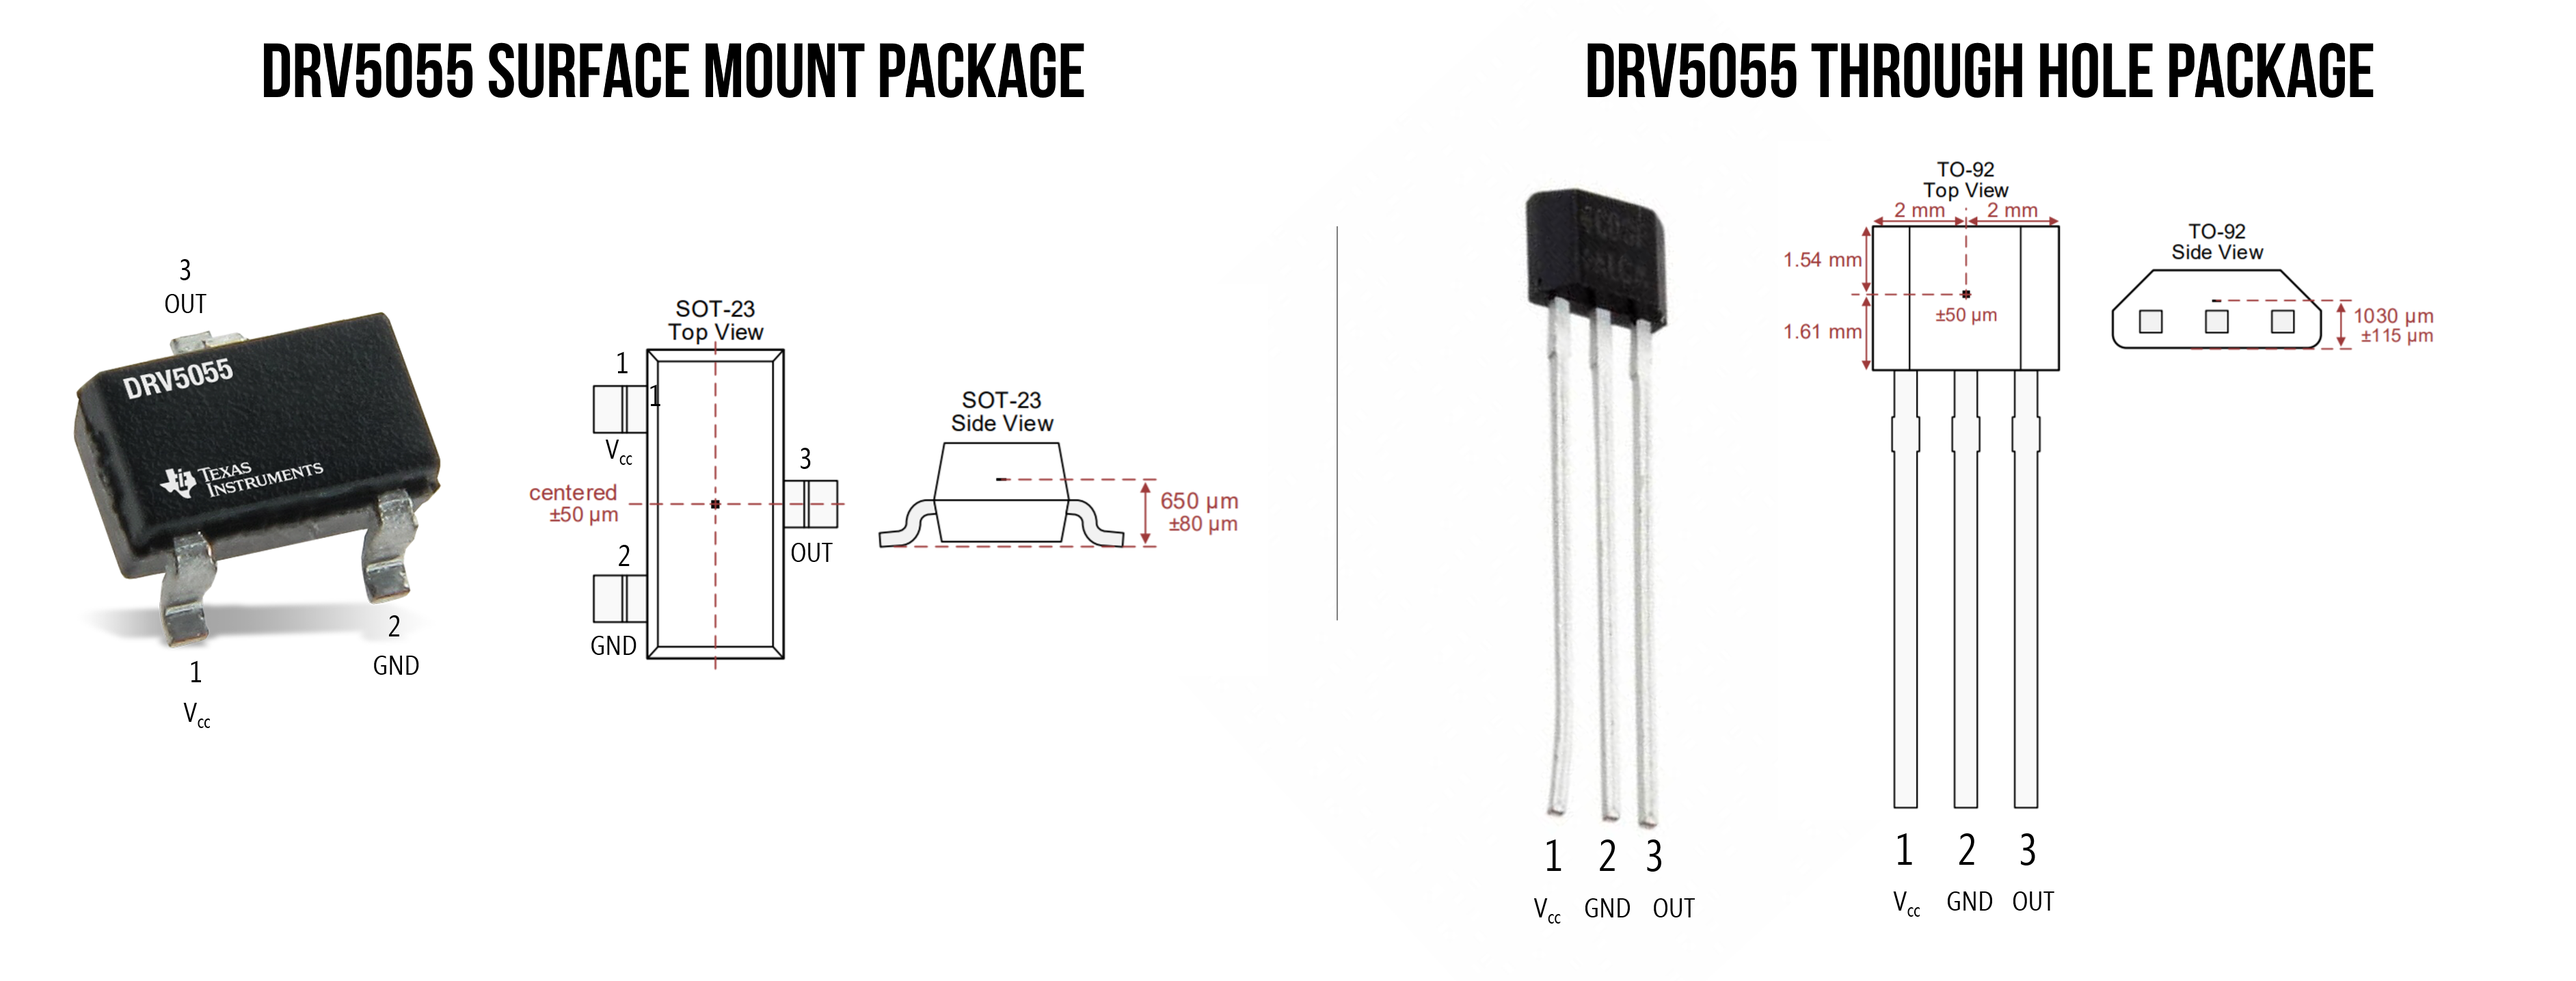
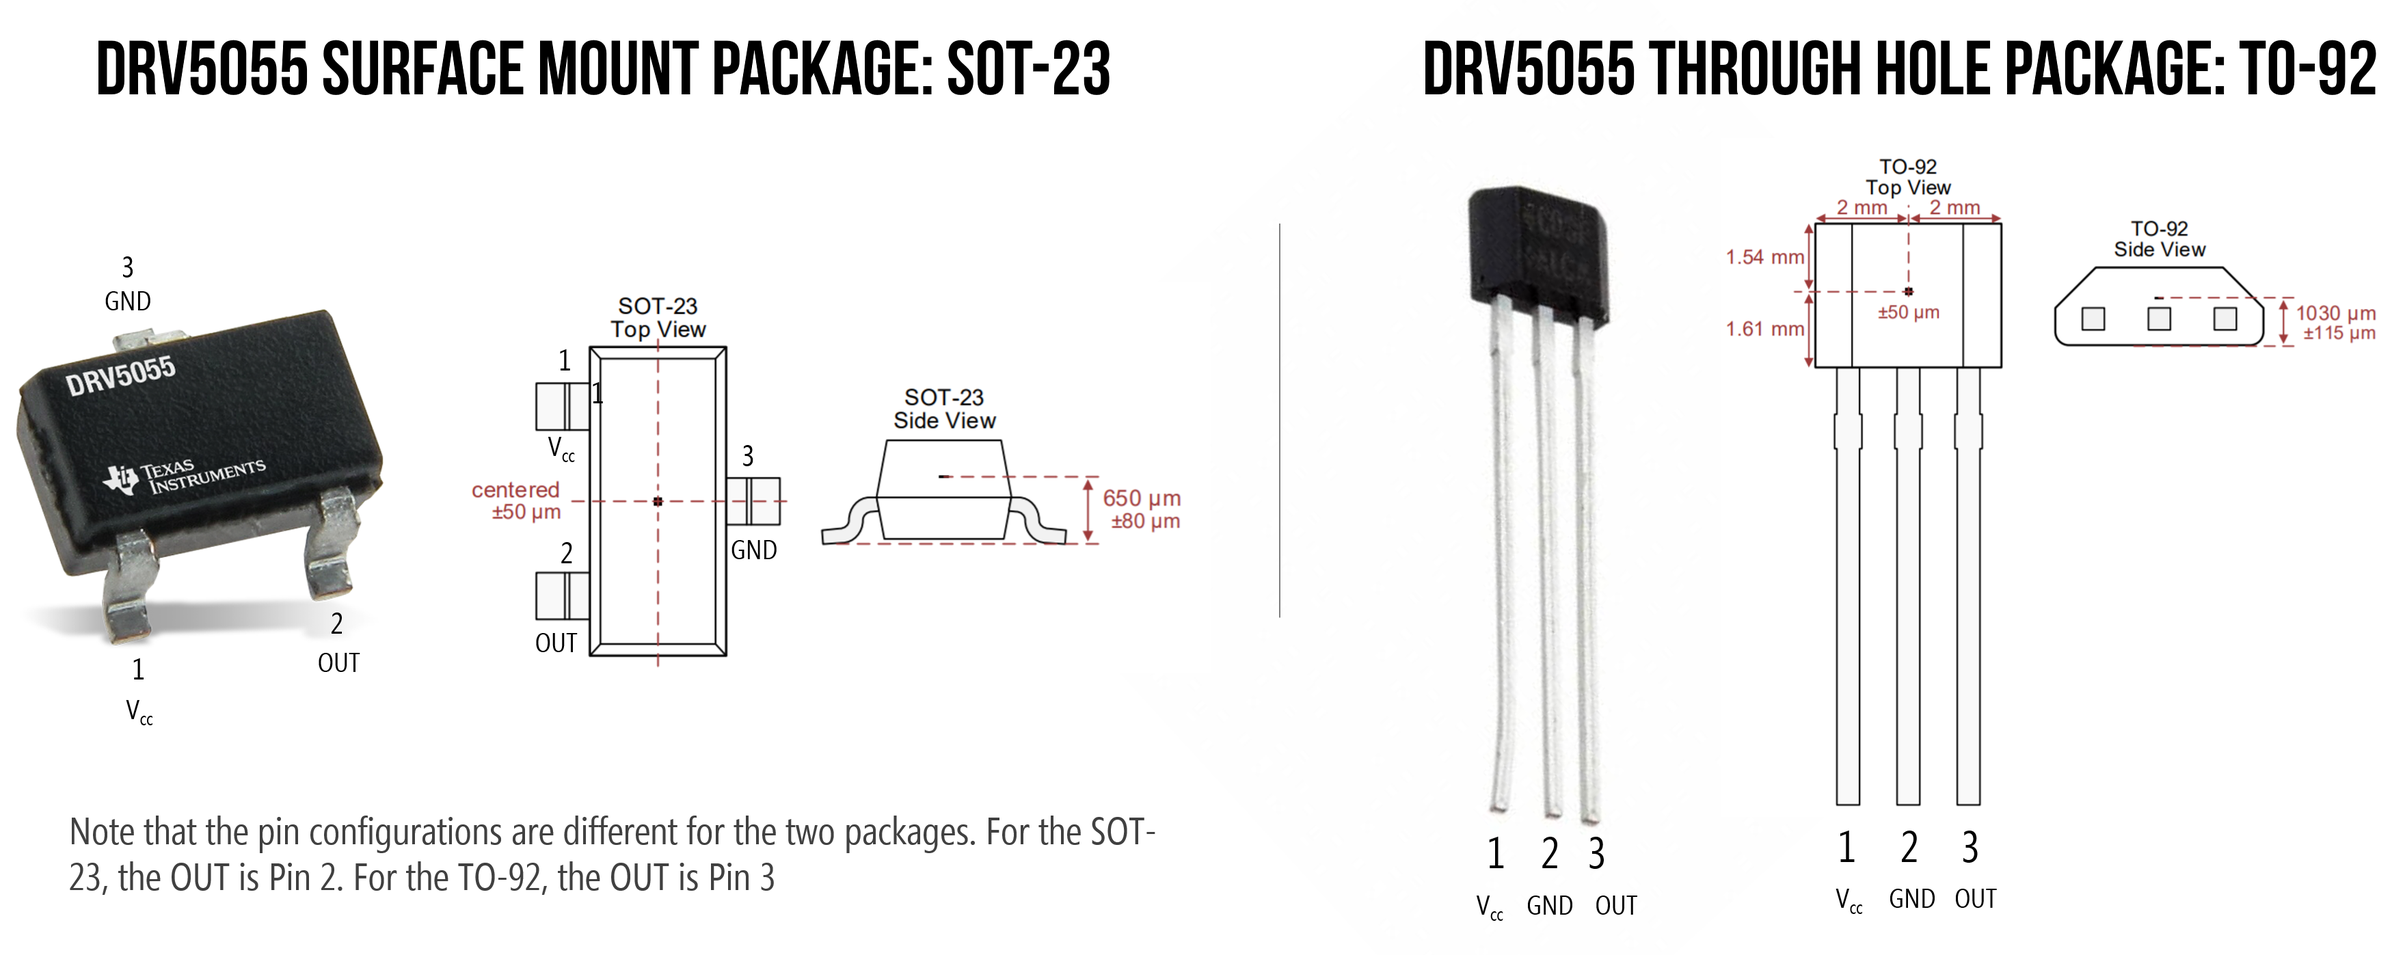
added in bare bones hall effect circuit example

diff --git a/sensors/hall-effect.md b/sensors/hall-effect.md
@@ -98,7 +98,7 @@ In our hardware kits, we provide the Texas Instruments (TI) [DRV5055](http://www
 
 The DRV5055 can operate with both 3.3V and 5V power supplies (with +/- 10% tolerance). The sensor can be sampled at 20kHz. To provide a reliable voltage output across a range of deployment conditions, the DRV5055 chip includes temperature compensation circuits, mechanical stress cancellation, signal conditioning, and amplification.
 
-Two packages are available: a surface-mount package SOT-23 (left diagram below) and a through hole package TO-92 (right). We will be using the through-hole package. 
+Two packages are available: a surface-mount package SOT-23 (left diagram below) and a through hole package TO-92 (right). We will be using the through-hole package (TO-92). 
 
 ![Two DRV5055 packages are available: a surface-mount package (left diagram) and a through hole package (right)](assets/images/HallEffectSensor_Package_DRV5055.png)
 The two DRV5055 packages with pin configurations and Hall element location is labeled in red (at center of the sensor)
@@ -112,6 +112,8 @@ To use the sensor, hook up Leg 1 to $$V_{CC}$$*, Leg 2 to $$GND$$, and Leg 3 to 
 We've included two equivalent Arduino wirings. The left diagram includes a breadboard, which we felt may be a bit confusing to those still becoming familiar with breadboards. The middle diagram is the same wiring but without a breadboard. The schematic on the right is copy/pasted directly from the [DRV5055](http://www.ti.com/lit/ds/symlink/drv5055.pdf) datasheet.
 {: .fs-1 }
 
+![](assets/images/HallEffectSensor_PinConfigurations_DatasheetScreenshot.png)
+
 #### Sensor response to magnetic field
 
 So, how does the DRV5055 output pin (Leg 3) respond to a magnetic field?
@@ -122,8 +124,37 @@ When no magnetic field is present, the analog output drives **half** of $$V_{cc}
 The magnetic response graph for the [DRV5055](http://www.ti.com/lit/ds/symlink/drv5055.pdf) Hall effect sensor. The diagram on the right shows a magnet's south pole orthogonal to the sensing surface, which would result in a positive $$\vec{B}$$ and an analog output voltage > $$V_{cc}/2$$. If the magnet's orientation is flipped such that the north pole is facing the sensor, then the $$\vec{B}$$ will be negative and the analog output voltage will range between 0 and $$V_{cc}/2$$.
 {: .fs-1 }
 
-## Let's make stuff!
+## Let's make stuff
 
+First, we're going to use the Hall effect sensor in a "bare bones" circuit without a microcontroller and then we'll show how to use the sensor with Arduino.
+
+## Make a magical magnetic LED brightener
+
+Let's use the Hall effect sensor to automatically change the brightness of our LED. Recall that $$V_{out}$$ increases as the south pole of a magnet nears and $$V_{out}$$ decreases as the north pole nears. Let's use this to control the brightness of our LED.
+
+The [DRV5055](http://www.ti.com/lit/ds/symlink/drv5055.pdf) datasheet states that the maximum continuous output current is 1mA. Using Ohm's Law, we can calculate a safe resistance value for the current-limiting resistor such that the LED does not pull too much current. $$I=\frac{V_{cc} - V_f}{R} \to 1mA=\frac{5V-2V}{R} \to R=\frac{3V}{0.001A} = 3,000Ω$$. So, we'll use a 3.3kΩ.
+
+![Screenshot of DRV5055 datasheet, which specifies the maximum continuous current of 1mA](assets/images/HallEffectSensor_RecommendedOperatingConditions_DatasheetScreenshot.png)
+
+We've included two wiring diagrams: on the left, the suggested wiring by the DRV5055 datasheet with the decoupling capacitor and, on the right, the same wiring but without the capacitor. Both will work similarly for our purposes here, so if you don't have a capacitor handy, just make the circuit on the right.
+
+![Wiring diagram for Hall effect-based LED brightner](assets/images/HallEffectSensor_WiringDiagram_NoArduino.png)
+
+### Workbench video
+
+And here's a workbench video demonstrating the circuit (without a capacitor). The second half of the video includes two multimeters: one to measure the current through the circuit and the other to measure the voltage output from the Hall effect sensor. 
+
+<iframe width="736" height="414" src="https://www.youtube.com/embed/RLNx7tHCxC0" frameborder="0" allow="accelerometer; autoplay; encrypted-media; gyroscope; picture-in-picture" allowfullscreen></iframe>
+My vocal narration is quite soft as I recorded the video early in the morning and did not want to disturb my house! :D
+{: .fs-1 }
+
+### Improving the circuit
+
+What if we wanted to supply more than 1mA through our LED? We have have two choices: 
+1. Just like with our [photoresistor](photoresistors.md#An-improved-auto-on-nightlight-circuit) circuit, we could change our circuit to use a **transistor**. In this case, the Hall effect sensor output would be connected to a transistor, which would control the current through our LED. If you have a transistor, feel free to try this!
+2. We could move on to using a microcontroller, which is what we're going to do!
+
+## Make an Arduino-based magical magnetic LED brightener
 
 ## Workbench video
 
